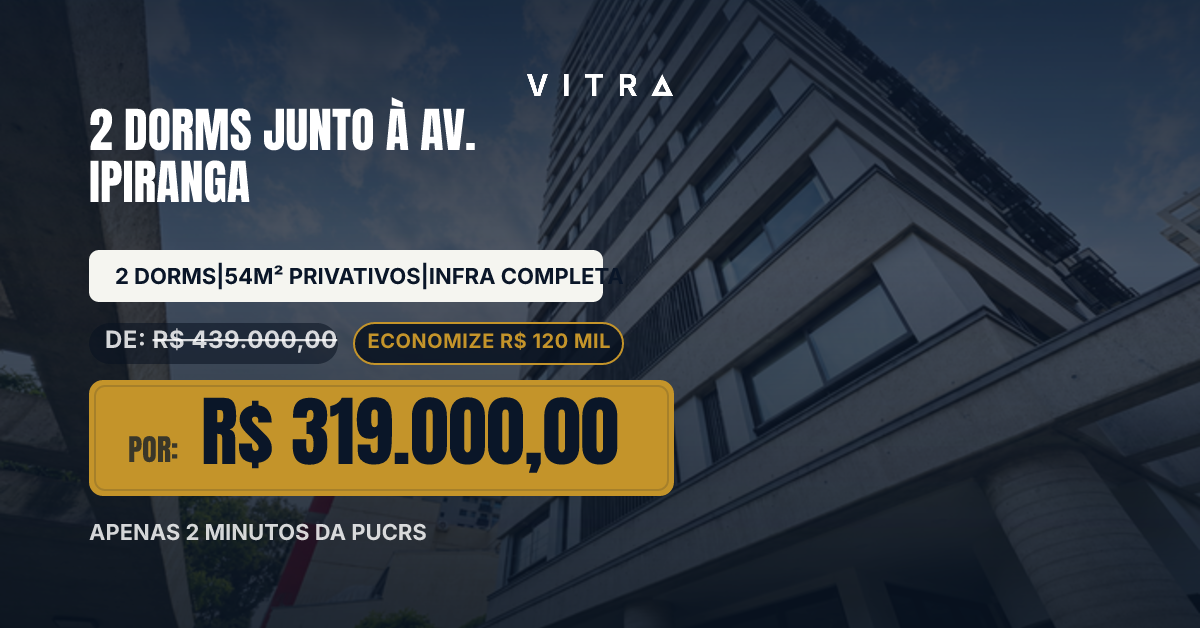
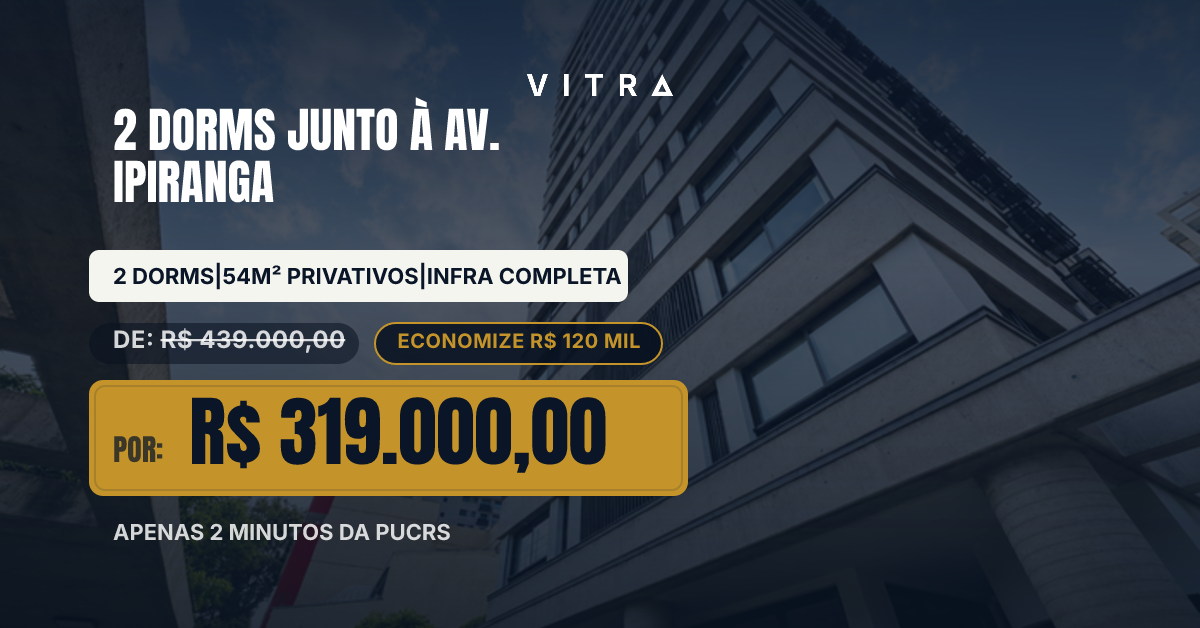
Oferta-âncora: eixo único de texto + anti-overflow (v5) + QA Harness determinístico
Novos screenshots (v4): placa de preço OK, mas eixos de texto escalonados
(headline em x, barra em x+padding, POR em x+padSide → "desalinhado") e barra
encostando o texto na borda (estimador subestima a largura).

Decisão de arte: EIXO ÚNICO à esquerda (logo centralizada no topo = assinatura;
todo texto num só eixo; preço herói por tamanho+ouro). NÃO centralizar.

- render-asset: axis = margin + INSET; headline/barra/DE/POR/rodapé partem de axis;
  placas começam em margin com pad-esquerdo = INSET (texto interno no eixo).
  ofertaBox ganhou o parâmetro inset. WIDTH_SAFETY=1.06 anti-overflow (fill_bar
  1.0 -> 0.94, texto nunca encosta). render-version v4 -> v5.
- creativeLint v2.1: regras novas overflow (fill>maxFill) e axis_misaligned
  (axis_spread>axisTol); +4 testes = 202 no total.
- QA Harness dashboard/scripts/creative-qa.mjs (npm run qa:creative): matriz de
  fixtures (curto/médio/preço-grande/headline-longa × 1:1/9:16/1.91:1) -> render
  real -> compara metadata.lint com o ESPERADO (normal=ok; estresse=reprova pela
  regra certa); 546 tratado como infra; sai 1 no CI. Núcleo determinístico.

Verificado (render real): ref 3 formatos ok, axis_spread=0, fill_bar=0.94,
fill_price=1, price_ratio~3.2; headline-longa REPROVADA por char_limit; 202 testes
+ ESLint OK; 3 previews sem-moldura -> v5. Fixtures removidas.

diff --git a/supabase/functions/render-asset/index.ts b/supabase/functions/render-asset/index.ts
@@ -1693,31 +1693,37 @@ function buildVitraFichaSvg(asset: any, campaign: any, images: Array<string | nu
 // grupo + padding, limitada a maxW) e o VALOR CRESCE até preencher a altura útil — sem vazio lateral
 // (o erro marcado nos screenshots). Left-anchored em `x` para manter o mesmo eixo da headline/barra.
 // Retorna métricas (valueSize, fill, plateW) para o Creative Lint provar o preenchimento.
-function ofertaBox(x: number, y: number, maxW: number, h: number, label: string, value: string, labelSize: number):
-  { markup: string; valueSize: number; fill: number; plateW: number } {
+// `inset` = padding esquerdo (o "POR:" nasce no eixo comum de texto). SAFETY compensa a subestimação
+// do estimador de largura (o valor real do Anton é ~6% mais largo) — a placa abraça com folga e o valor
+// NÃO encosta na borda direita. Retorna métricas p/ o Creative Lint (fill, plateW, textLeft do rótulo).
+const WIDTH_SAFETY = 1.06;
+function ofertaBox(x: number, y: number, maxW: number, h: number, label: string, value: string, labelSize: number, inset: number):
+  { markup: string; valueSize: number; fill: number; plateW: number; textLeft: number } {
   const F = 0.79; // fator display (Anton) — espelha o fitDisplaySize da Edge
   const ink = "#0A1628";
   const rx = Math.round(h * 0.12);
-  const padSide = Math.round(h * 0.34);
+  const padL = inset;
+  const padR = Math.round(h * 0.34);
   const gap = Math.round(labelSize * 0.55);
-  const labelW = measuredWidthPx(label, labelSize, F);
+  const labelW = measuredWidthPx(label, labelSize, F) * WIDTH_SAFETY;
   const valueMax = Math.round(h * 0.66);
   const valueMin = Math.round(h * 0.34);
-  const valueBudget = Math.max(40, (maxW - padSide * 2) - labelW - gap);
+  // Orçamento do valor já descontado da folga de segurança → o texto real cabe sem tocar a borda.
+  const valueBudget = Math.max(40, Math.round(((maxW - padL - padR) - labelW - gap) / WIDTH_SAFETY));
   const valueSize = fitFillSize(value, { min: valueMin, max: valueMax, widthPx: valueBudget, factor: F });
-  const valueW = measuredWidthPx(value, valueSize, F);
+  const valueW = measuredWidthPx(value, valueSize, F) * WIDTH_SAFETY;
   const groupW = labelW + gap + valueW;
-  const plateW = Math.min(maxW, Math.round(groupW + padSide * 2));
-  const innerW = plateW - padSide * 2;
-  const contentX = x + padSide;
+  const plateW = Math.min(maxW, Math.round(groupW + padL + padR));
+  const innerW = plateW - padL - padR;
+  const contentX = x + padL;
   const cy = y + Math.round(h / 2) + Math.round(valueSize * 0.34);
   const labelY = cy - Math.round(valueSize * 0.02);
   const fill = fillRatio(groupW, innerW);
   const markup = `<rect x="${x}" y="${y}" width="${plateW}" height="${h}" rx="${rx}" fill="${GOLD}"/>
   <rect x="${x + 6}" y="${y + 6}" width="${plateW - 12}" height="${h - 12}" rx="${Math.max(2, rx - 4)}" fill="none" stroke="${ink}" stroke-opacity="0.16" stroke-width="2"/>
   ${textLine(contentX, labelY, label, { anchor: "start", fill: ink, family: "Anton", size: labelSize, weight: 400, opacity: 0.74 })}
-  ${textLine(contentX + labelW + gap, cy, value, { anchor: "start", fill: ink, family: "Anton", size: valueSize, weight: 400 })}`;
-  return { markup, valueSize, fill, plateW };
+  ${textLine(contentX + Math.round(labelW) + gap, cy, value, { anchor: "start", fill: ink, family: "Anton", size: valueSize, weight: 400 })}`;
+  return { markup, valueSize, fill, plateW, textLeft: contentX };
 }
 
 function buildVitraOfertaAncoraSvg(asset: any, campaign: any, images: Array<string | null>, W: number, H: number, brandProfile: ReturnType<typeof brandRenderProfile>, idBase: string, out?: { lint?: ReturnType<typeof lintCreative> }) {
@@ -1772,6 +1778,12 @@ function buildVitraOfertaAncoraSvg(asset: any, campaign: any, images: Array<stri
   };
 
   const x = L.margin;
+  // EIXO ÚNICO de texto: todo texto (headline, barra, DE, POR, rodapé) parte de `axis`; as placas
+  // começam em `x` e têm padding-esquerdo = INSET, de modo que o texto interno TAMBÉM caia em `axis`.
+  // Antes cada elemento tinha um recuo diferente (headline em x, barra em x+35, POR em x+64) → eixos
+  // escalonados, o que lia como "desalinhado". Logo continua centralizada no topo (assinatura da marca).
+  const INSET = isWide ? 24 : 34;
+  const axis = x + INSET;
   const cx = Math.round(W / 2);
   const F = formatSpec(W, H);
   // Imagem dirigida (DS P1): grade navy + enquadramento por foco.
@@ -1785,23 +1797,27 @@ function buildVitraOfertaAncoraSvg(asset: any, campaign: any, images: Array<stri
   // Headline (Anton, branca, alinhada a esquerda).
   const headLines = wrapText(headlineRaw, L.headChars, 2);
   const headMarkup = headLines.map((line, i) => {
-    const size = fitDisplaySize(line, L.headBase, Math.round(L.headBase * 0.5), L.headBudget, 0.79);
-    return textLine(x, L.headY + i * L.headGap, line, { anchor: "start", fill: "#FFFFFF", family: "Anton", size, weight: 400 });
+    const size = fitDisplaySize(line, L.headBase, Math.round(L.headBase * 0.5), L.headBudget - INSET, 0.79);
+    return textLine(axis, L.headY + i * L.headGap, line, { anchor: "start", fill: "#FFFFFF", family: "Anton", size, weight: 400 });
   }).join("");
 
   // Barra de caracteristicas — ABRAÇA o conteúdo (largura = texto + padding, left-anchored) para não
   // deixar vazio lateral (erro marcado no 1.91:1). O texto CRESCE até um teto e a barra encolhe até ele.
   const [barX, barY, maxBarW, barH] = L.bar;
-  const barPad = Math.round(barH * 0.5);
-  const barSize = featureBar ? fitFillSize(featureBar, { min: 14, max: Math.round(barH * 0.42), widthPx: maxBarW - barPad * 2, factor: 0.9 }) : L.barSize;
+  const barPad = INSET; // padding-esquerdo = INSET → o texto da barra cai no eixo comum
+  const barPadR = Math.round(barH * 0.5);
+  const barSize = featureBar ? fitFillSize(featureBar, { min: 14, max: Math.round(barH * 0.42), widthPx: maxBarW - barPad - barPadR, factor: 0.9 }) : L.barSize;
+  // Largura medida × folga de segurança (o estimador subestima; sem isso o texto encosta na borda — o
+  // erro marcado no 1.91:1). fill fica ~1/SAFETY (≈0.94) → passa no minFill e no maxFill (não overflow).
   const barTextW = featureBar ? measuredWidthPx(featureBar, barSize, 0.9) : 0;
-  const barW = featureBar ? Math.min(maxBarW, Math.round(barTextW + barPad * 2)) : maxBarW;
-  const barInnerW = Math.max(1, barW - barPad * 2);
+  const barSafeW = barTextW * WIDTH_SAFETY;
+  const barW = featureBar ? Math.min(maxBarW, Math.round(barSafeW + barPad + barPadR)) : maxBarW;
+  const barInnerW = Math.max(1, barW - barPad - barPadR);
   const barFill = featureBar ? fillRatio(barTextW, barInnerW) : 1;
   const barTextY = barY + Math.round(barH / 2) + Math.round(barSize * 0.35);
   const barMarkup = featureBar
     ? `<rect x="${barX}" y="${barY}" width="${barW}" height="${barH}" rx="10" fill="#F5F5F0"/>
-    ${textLine(barX + barPad, barTextY, featureBar, { anchor: "start", fill: "#0A1628", family: "Inter", size: barSize, weight: 800 })}`
+    ${textLine(axis, barTextY, featureBar, { anchor: "start", fill: "#0A1628", family: "Inter", size: barSize, weight: 800 })}`
     : "";
 
   // ---- Linha "DE / economia": preço antigo riscado num chip legível (à esquerda) + selo de economia
@@ -1824,25 +1840,26 @@ function buildVitraOfertaAncoraSvg(asset: any, campaign: any, images: Array<stri
   const deH = Math.round(L.deSize * 1.7);
   const deRowTop = L.deY - Math.round(L.deSize * 1.05);
   const deText = `DE: ${formatMoneyLike(priceFrom)}`;
-  const deChipW = priceFrom ? Math.round(measuredWidthPx(deText, L.deSize, 1.0) + 32) : 0;
+  // Chip DE: texto no EIXO (padding-esquerdo = INSET) + folga de segurança à direita.
+  const deChipW = priceFrom ? Math.round(measuredWidthPx(deText, L.deSize, 1.0) * WIDTH_SAFETY + INSET + 16) : 0;
   const savFs = Math.round(L.deSize * 0.82);
-  const savPillW = savingsLabel ? Math.round(measuredWidthPx(savingsLabel, savFs, 1.0) + 36) : 0;
+  const savPillW = savingsLabel ? Math.round(measuredWidthPx(savingsLabel, savFs, 1.0) * WIDTH_SAFETY + 40) : 0;
   const savX = x + deChipW + (priceFrom && savingsLabel ? 16 : 0);
   const deMarkup = (priceFrom || savingsLabel) ? `
     ${priceFrom ? `<rect x="${x}" y="${deRowTop}" width="${deChipW}" height="${deH}" rx="${Math.round(deH / 2)}" fill="#07111F" fill-opacity="0.55"/>
-    <text x="${x + 16}" y="${L.deY}" text-anchor="start" font-family="Inter" font-size="${L.deSize}" font-weight="800" letter-spacing="0.5"><tspan fill="rgba(255,255,255,0.82)">DE: </tspan><tspan fill="rgba(255,255,255,0.82)" text-decoration="line-through">${esc(formatMoneyLike(priceFrom))}</tspan></text>` : ""}
+    <text x="${axis}" y="${L.deY}" text-anchor="start" font-family="Inter" font-size="${L.deSize}" font-weight="800" letter-spacing="0.5"><tspan fill="rgba(255,255,255,0.82)">DE: </tspan><tspan fill="rgba(255,255,255,0.82)" text-decoration="line-through">${esc(formatMoneyLike(priceFrom))}</tspan></text>` : ""}
     ${savingsLabel ? `<rect x="${savX}" y="${deRowTop}" width="${savPillW}" height="${deH}" rx="${Math.round(deH / 2)}" fill="#07111F" fill-opacity="0.85" stroke="${GOLD}" stroke-width="2"/>
     ${textLine(savX + Math.round(savPillW / 2), L.deY, savingsLabel, { anchor: "middle", fill: GOLD, family: "Inter", size: savFs, weight: 800, spacing: 0.5 })}` : ""}
   ` : "";
 
   // Placa dourada "POR: <valor>" (herói) — auto-equilibrante: abraça o conteúdo e o valor cresce até preencher.
   const [boxX, boxY, boxMaxW, boxH] = L.box;
-  const price = ofertaBox(boxX, boxY, boxMaxW, boxH, "POR:", esc(priceTo), L.boxLabel);
+  const price = ofertaBox(boxX, boxY, boxMaxW, boxH, "POR:", esc(priceTo), L.boxLabel, INSET);
   const boxMarkup = price.markup;
 
-  // Rodape (localizacao / proximidade) — left-anchored no mesmo eixo.
+  // Rodape (localizacao / proximidade) — no mesmo eixo.
   const footMarkup = footer
-    ? textLine(x, L.footY, footer, { anchor: "start", fill: "rgba(255,255,255,0.82)", family: "Inter", size: L.footSize, weight: 800 })
+    ? textLine(axis, L.footY, footer, { anchor: "start", fill: "rgba(255,255,255,0.82)", family: "Inter", size: L.footSize, weight: 800 })
     : "";
 
   // ---- Creative Lint v2 (P0 determinismo): além de safe-zone/colisão/overflow/char-limit, agora
@@ -1853,13 +1870,13 @@ function buildVitraOfertaAncoraSvg(asset: any, campaign: any, images: Array<stri
     const headSize0 = headLines.length ? fitDisplaySize(headLines[0], L.headBase, Math.round(L.headBase * 0.5), L.headBudget, 0.79) : L.headBase;
     const els: LintElement[] = [
       { role: "logo", box: { x: logoX, y: L.logoY, w: L.logoW, h: logoH }, critical: true, isLogo: true },
-      { role: "headline", box: { x, y: L.headY - Math.round(headSize0 * 0.8), w: L.headBudget, h: headLines.length * L.headGap }, critical: true, block: true, charLen: headlineRaw.length, charLimit: 40 },
-      { role: "bar", box: { x: barX, y: barY, w: barW, h: barH }, critical: true, block: true, secondary: true, fontSize: barSize, ...(featureBar ? { fill: barFill, minFill: 0.80 } : {}) },
-      { role: "price", box: { x: boxX, y: boxY, w: price.plateW, h: boxH }, critical: true, block: true, display: true, fontSize: price.valueSize, minFont: Math.round(boxH * 0.34), fill: price.fill, minFill: 0.60 },
-      { role: "de", box: { x, y: deRowTop, w: deChipW + (savingsLabel ? savPillW + 16 : 0), h: deH }, secondary: true, fontSize: L.deSize },
-      { role: "footnote", box: { x, y: L.footY - L.footSize, w: Math.round(measuredWidthPx(footer, L.footSize, 1.0)), h: L.footSize + 6 }, critical: true, secondary: true, fontSize: L.footSize },
+      { role: "headline", box: { x: axis, y: L.headY - Math.round(headSize0 * 0.8), w: L.headBudget - INSET, h: headLines.length * L.headGap }, critical: true, block: true, charLen: headlineRaw.length, charLimit: 40, onAxis: true, textLeft: axis },
+      { role: "bar", box: { x: barX, y: barY, w: barW, h: barH }, critical: true, block: true, secondary: true, fontSize: barSize, onAxis: true, textLeft: axis, ...(featureBar ? { fill: barFill, minFill: 0.80, maxFill: 0.99 } : {}) },
+      { role: "price", box: { x: boxX, y: boxY, w: price.plateW, h: boxH }, critical: true, block: true, display: true, fontSize: price.valueSize, minFont: Math.round(boxH * 0.34), fill: price.fill, minFill: 0.60, maxFill: 1.02, onAxis: true, textLeft: price.textLeft },
+      { role: "de", box: { x, y: deRowTop, w: deChipW + (savingsLabel ? savPillW + 16 : 0), h: deH }, secondary: true, fontSize: L.deSize, onAxis: !!priceFrom, textLeft: axis },
+      { role: "footnote", box: { x: axis, y: L.footY - L.footSize, w: Math.round(measuredWidthPx(footer, L.footSize, 1.0)), h: L.footSize + 6 }, critical: true, secondary: true, fontSize: L.footSize, onAxis: !!footer, textLeft: axis },
     ];
-    out.lint = lintCreative(F.safe, els, { gapCap: L.gapCap, priceMinRatio: 1.6, requireLogo: true });
+    out.lint = lintCreative(F.safe, els, { gapCap: L.gapCap, priceMinRatio: 1.6, requireLogo: true, axisTol: 8 });
     if (!out.lint.ok) console.warn(`[creativeLint] oferta-ancora ${F.kind}: ${out.lint.errors.join(", ")}`);
   }
 

diff --git a/supabase/functions/_shared/creativeLint.ts b/supabase/functions/_shared/creativeLint.ts
@@ -23,8 +23,11 @@ export interface LintElement {
   // v2 (determinismo de composição):
   fill?: number;        // fração [0..1] da largura interna do container preenchida pelo conteúdo
   minFill?: number;     // preenchimento mínimo exigido (reprova vazio lateral sem função)
+  maxFill?: number;     // preenchimento máximo (fill>max ⇒ texto encostando/excedendo o container)
   secondary?: boolean;  // texto secundário (barra/rodapé) — referência p/ a proeminência do preço
   isLogo?: boolean;     // é a logo da marca (checa presença quando requireLogo)
+  textLeft?: number;    // x óptico da 1ª letra (para checar o eixo de alinhamento entre textos)
+  onAxis?: boolean;     // participa do eixo de alinhamento comum (com textLeft)
 }
 
 export interface LintReport { ok: boolean; errors: string[]; warnings: string[]; metrics?: Record<string, number> }
@@ -34,6 +37,7 @@ export interface LintOptions {
   gapCap?: number;       // maior faixa morta vertical tolerada (px) entre blocos de topo
   priceMinRatio?: number; // altura do preço ≥ ratio × maior texto secundário
   requireLogo?: boolean;  // exige uma logo presente
+  axisTol?: number;       // desvio máximo (px) entre os eixos ópticos dos textos onAxis
 }
 
 // Fração da menor caixa a partir da qual uma sobreposição conta como colisão real (evita falso-positivo
@@ -95,10 +99,22 @@ export function lintCreative(safe: FormatSpec["safe"], elements: LintElement[], 
 
   // 7) Preenchimento: conteúdo que deixa vazio lateral sem função dentro do próprio container
   // (ex.: valor curto numa placa larga, texto centralizado numa barra full-width). REPROVA.
+  // E o inverso: fill acima do teto ⇒ texto encostando/excedendo a borda do container (overflow).
   for (const e of elements) {
-    if (e.minFill != null && e.fill != null) {
+    if (e.fill != null && (e.minFill != null || e.maxFill != null)) {
       metrics[`fill_${e.role}`] = Number(e.fill.toFixed(2));
-      if (e.fill < e.minFill) errors.push(`underfill:${e.role}`);
+      if (e.minFill != null && e.fill < e.minFill) errors.push(`underfill:${e.role}`);
+      if (e.maxFill != null && e.fill > e.maxFill) errors.push(`overflow:${e.role}`);
+    }
+  }
+
+  // 7b) Eixo de alinhamento: os textos marcados onAxis devem partir do MESMO x óptico (± axisTol).
+  if (opts.axisTol != null) {
+    const lefts = elements.filter((e) => e.onAxis && e.textLeft != null).map((e) => e.textLeft as number);
+    if (lefts.length > 1) {
+      const spread = Math.max(...lefts) - Math.min(...lefts);
+      metrics.axis_spread = Math.round(spread);
+      if (spread > opts.axisTol) errors.push(`axis_misaligned:${Math.round(spread)}>${opts.axisTol}`);
     }
   }
 

diff --git a/dashboard/src/lib/__tests__/creativeLint.test.js b/dashboard/src/lib/__tests__/creativeLint.test.js
@@ -136,4 +136,37 @@ describe('creativeLint v2 — composição determinística (os erros marcados no
     const els = [{ role: 'bar', box: { x: 90, y: 300, w: 900, h: 70 }, block: true }]
     expect(lintCreative(safe, els).ok).toBe(true)
   })
+
+  it('REPROVA overflow: texto excede o container (fill acima do teto)', () => {
+    const els = [{ role: 'bar', box: { x: 90, y: 300, w: 400, h: 70 }, fill: 1.08, maxFill: 0.99 }]
+    const r = lintCreative(safe, els)
+    expect(r.errors).toContain('overflow:bar')
+  })
+
+  it('APROVA quando o texto abraça o container com folga (fill ≤ maxFill)', () => {
+    const els = [{ role: 'bar', box: { x: 90, y: 300, w: 400, h: 70 }, fill: 0.94, minFill: 0.80, maxFill: 0.99 }]
+    expect(lintCreative(safe, els).ok).toBe(true)
+  })
+
+  it('REPROVA eixos de texto escalonados (axis_misaligned)', () => {
+    const els = [
+      { role: 'headline', box: { x: 90, y: 200, w: 800, h: 80 }, onAxis: true, textLeft: 90 },
+      { role: 'bar', box: { x: 90, y: 300, w: 800, h: 70 }, onAxis: true, textLeft: 125 }, // recuo do padding
+      { role: 'price', box: { x: 90, y: 400, w: 800, h: 120 }, onAxis: true, textLeft: 154 },
+    ]
+    const r = lintCreative(safe, els, { axisTol: 8 })
+    expect(r.errors.some(e => e.startsWith('axis_misaligned:'))).toBe(true)
+    expect(r.metrics.axis_spread).toBe(64)
+  })
+
+  it('APROVA quando todos os textos partem do mesmo eixo (spread 0)', () => {
+    const els = [
+      { role: 'headline', box: { x: 124, y: 200, w: 700, h: 80 }, onAxis: true, textLeft: 124 },
+      { role: 'bar', box: { x: 90, y: 300, w: 700, h: 70 }, onAxis: true, textLeft: 124 },
+      { role: 'price', box: { x: 90, y: 400, w: 700, h: 120 }, onAxis: true, textLeft: 124 },
+    ]
+    const r = lintCreative(safe, els, { axisTol: 8 })
+    expect(r.metrics.axis_spread).toBe(0)
+    expect(r.errors.some(e => e.startsWith('axis_misaligned'))).toBe(false)
+  })
 })

diff --git a/supabase/functions/_shared/renderVersions.ts b/supabase/functions/_shared/renderVersions.ts
@@ -16,7 +16,7 @@ export const VITRA_IMOBILIARIA_TEMPLATE_RENDER_VERSION: Record<string, string> =
   "vitra-imobiliaria-vitrine-gallery": "vitrine-gallery-approved-v1",
   "vitra-imobiliaria-oportunidade-bairro": "oportunidade-bairro-headfit-v3",
   "vitra-imobiliaria-ficha-imovel": "ficha-imovel-approved-v1",
-  "vitra-imobiliaria-oferta-ancora": "oferta-ancora-approved-v4",
+  "vitra-imobiliaria-oferta-ancora": "oferta-ancora-approved-v5",
   "vitra-imobiliaria-destino-bairro": "destino-bairro-poster-v4",
 };
 

diff --git a/dashboard/src/lib/creativeTemplateCatalog.js b/dashboard/src/lib/creativeTemplateCatalog.js
@@ -850,7 +850,7 @@ export const CREATIVE_TEMPLATE_CATALOG = {
       // Arte nova (junho/2026). Referencia visual do cliente (peca "2 DORM Av. Ipiranga"): conceito/estrutura
       // de preco-ancora; adaptado ao brandbook (navy + dourado, wordmark VITRA oficial). Cada formato tem
       // composicao propria com a safe zone do Meta.
-      renderVersion: 'oferta-ancora-approved-v4',
+      renderVersion: 'oferta-ancora-approved-v5',
     },
     {
       id: 'vitra-imobiliaria-destino-bairro',

diff --git a/obsidian/00_Comece_Aqui.md b/obsidian/00_Comece_Aqui.md
@@ -248,6 +248,8 @@ Navegue pelas seÃ§Ãµes do projeto utilizando os links abaixo:
 81. **[[Atualizacao_2026-06-19_Skill_Vitra_Trafego_e_QualityLead]]**
     Skill nova `vitra-trafego` (v1, LOCAL em .claude/) — estrategista de Meta Ads: analisa campanhas pagas, ranqueia VENCEDORAS por contexto (CPL/leads/maturidade), extrai o padrao e ADAPTA a um novo imovel (endereco→raio, ticket→form, publico, regiao, objetivo). So PROPOE: relatorio markdown + JSON do preset (forma de premium_meta_presets.blueprint, importavel/auto-seed). NAO executa/ativa — build do app, PAUSED, sob aprovacao. Espelha vitra-conteudo (organico). Regras: vencedora=CPL≤mediana+leads≥30+madura; score+proveniencia; TTL p/ depreciar; nunca fora dos guards. + Ajuste no objectivePlaybook: leads_form optimization_goal LEAD_GENERATION→QUALITY_LEAD (DEPOIS revertido — ver item 82). (.claude gitignored — skill nao versionada.)
 
+180. **[[Atualizacao_2026-07-01_Eixo_Unico_Overflow_QA_Harness]] — Oferta-âncora: eixo único + anti-overflow + QA Harness** — novos screenshots marcados (v4): a placa de preço já OK, mas (1) eixos de texto ESCALONADOS (headline em x, barra em x+padding, POR em x+padSide → lia como desalinhado) e (2) barra encostando o texto na borda (estimador subestima). Decisão de arte: EIXO ÚNICO à esquerda (logo centralizada no topo; todo texto num eixo; preço herói) — NÃO centralizar. Fixes na fonte: `axis=margin+INSET` (placas começam em margin com pad-esq=INSET → texto interno no eixo; `ofertaBox` ganhou `inset`); `WIDTH_SAFETY=1.06` anti-overflow (fill_bar 1.0→0.94). creativeLint v2.1: regras `overflow` (fill>maxFill) e `axis_misaligned` (axis_spread>tol). v4→v5. **QA Harness** `dashboard/scripts/creative-qa.mjs` (`npm run qa:creative`): matriz de fixtures (curto/médio/preço-grande/headline-longa × 3 formatos) → render real → compara lint com o ESPERADO (normal=ok; estresse=reprova certo); 546 tratado como infra; sai 1 no CI = trava regressão. Núcleo determinístico (não julgamento do modelo); Claude só conserta quando falha. Verificado: ref 3 formatos ok, axis_spread=0, fill_bar=0.94; headline-longa REPROVADA por char_limit; 202 testes (4 novos)+lint OK; 3 previews sem-moldura→v5. [[render-asset-deploy-e-limites]]
+
 179. **[[Atualizacao_2026-07-01_Validador_Layout_Deterministico_Fase1]] — Validador de Layout determinístico (Fase 1)** — resposta à causa ESTRUTURAL de por que erros básicos (vazio lateral, faixa morta, preço fraco) se repetiam mesmo com skills instaladas. Diagnóstico: as skills de design NÃO rodam na geração (só orientam o autor); o motor usa coordenadas fixas (números mágicos); e o `creativeLint` (6 regras) NÃO bloqueava (só `console.warn`, salvava com `ok:false`) nem media composição → os erros marcados davam `ok:true`. Entregue: **`layoutKit.ts`** (helpers auto-equilibrantes: `fitFillSize` cresce até preencher, `distributeV` sem faixa morta) + **`creativeLint` v2** com 4 regras bloqueantes novas (`underfill`, `dead_gap`, `price_weak`, `logo_missing`) + `metadata.lint.metrics` auditável. `oferta-ancora` refatorado na FONTE (placa/barra abraçam o conteúdo, valor cresce, story distribuído; v3→v4). Verificado: `fill_bar=1`, `fill_price=1`, `price_ratio≈3.2`, 198 testes (16 novos)+lint OK. O gate REPROVOU story/wide com `safe_zone:logo` (bug pré-existente: logo acima da safe-zone) → corrigido → `ok:true` nos 3 = validador pegando erro real. Skill direcao-de-arte atualizada (pré-flight v2). Story com-moldura não regenerou (546/OOM 9:16 = P0.2). Falta: Fase 2 (auto-regen+needs_human), 3 (golden ref), 4 (propagar aos 9 templates). [[render-asset-deploy-e-limites]]
 
 178. **[[Atualizacao_2026-06-30_Trafego_Fase2_Criativo_Oferta_Ancora]] — Tráfego Fase 2 (criativos): oferta-ancora preço-protagonista** — primeira peça da análise criativo-a-criativo (Dev+PO+Diretor de Design, lente ui-ux-pro-max) do oferta-ancora (preço-âncora De/Por) nos 3 formatos. Diagnóstico ANTES: preço não saltava (`ofertaBox` = box navy translúcido 34% + valor branco, competia com headline/barra brancas); "DE" riscado flutuava ilegível; desconto R$120 mil/−27% não aparecia; story com metade inferior morta. Fixes ESTRUTURAIS no motor: `ofertaBox`→**placa dourada sólida + texto navy** (navy/dourado ≈6:1 AA, o elemento mais saturado da peça); linha **"DE chip + selo ECONOMIZE R$ 120 MIL"** calculado de De−Por (preenche o vazio à direita e amplifica a oferta); story com cluster de preço empurrado p/ o terço inferior (some a metade morta). render-version v2→v3 (cache-bust, espelhado, guard verde). Verificado: deploy CLI + 3 renders DEPOIS 200 sem 546 (1080×1080 / 1200×628 / 9:16 972×1728), Creative Lint ok=true zero erros nos 3, 182 testes+ESLint OK, 6 previews do catálogo regenerados (com/sem moldura), assets de teste removidos. Aceite atendido → aprovado. Próximos: destino-bairro, hero-checklist, duo-selos, hero-panel, ficha-imovel (mesma sequência). [[render-asset-deploy-e-limites]]

diff --git a/obsidian/Atualizacao_2026-07-01_Eixo_Unico_Overflow_QA_Harness.md b/obsidian/Atualizacao_2026-07-01_Eixo_Unico_Overflow_QA_Harness.md
@@ -1,0 +1,49 @@
+# Oferta-âncora: eixo único + anti-overflow + QA Harness (2026-07-01)
+
+Continuação da [[Atualizacao_2026-07-01_Validador_Layout_Deterministico_Fase1|Fase 1 do validador]].
+Novos screenshots marcados apontaram 2 problemas na v4 (a placa de preço já estava OK) + o pedido de um
+**loop automatizado** que impeça erros básicos antes de exibir.
+
+## Diagnóstico (v4) — 2 causas estruturais
+1. **Eixos de texto escalonados.** Os containers alinhavam em `x`, mas o TEXTO não: headline em `x`,
+   texto da barra em `x+padding`, "POR:" em `x+padSide`, DE em `x+16`. Recuos diferentes → lia como
+   "desalinhado". **Decisão de direção de arte (Q1/Q3): eixo ÚNICO à esquerda** (logo centralizada no
+   topo = assinatura; todo texto num só eixo; preço herói por tamanho+ouro). **Não centralizar** —
+   leitura L→R + preço dominante pedem left-axis.
+2. **Barra encostando o texto na borda** (1.91:1). O estimador de largura **subestima** → o hug ficou
+   justo demais.
+
+## Correções (na FONTE, render-asset)
+- **Eixo único:** `axis = margin + INSET`; headline/barra/DE/POR/rodapé partem todos de `axis`; as placas
+  começam em `margin` com padding-esquerdo = INSET (o texto interno cai no eixo). `ofertaBox` ganhou o
+  parâmetro `inset`.
+- **Anti-overflow:** `WIDTH_SAFETY = 1.06` nas larguras que abraçam (barra, chips DE/economia, placa) —
+  compensa a subestimação; o texto fica com folga (`fill_bar` 1.0 → **0.94**), nunca encosta.
+- **Creative Lint v2.1:** 2 regras novas — **`overflow`** (`fill > maxFill` → texto excede o container) e
+  **`axis_misaligned`** (desvio dos eixos ópticos > `axisTol`; grava `axis_spread`). render-version v4→v5.
+
+## QA Harness — o "loop" determinístico (a solução estrutural do pedido)
+`dashboard/scripts/creative-qa.mjs` (`npm run qa:creative`). Renderiza uma **matriz de fixtures**
+(conteúdo curto/médio/preço-grande/headline-longa × 1:1/9:16/1.91:1) pela Edge real, lê o
+`metadata.lint` e **compara com o resultado ESPERADO** de cada fixture (normal→`ok`; estresse→reprovar
+pela regra certa). Trata 546 (OOM 9:16) como infra (retry), não como falha de design. Sai 1 no CI se
+qualquer fixture divergir → **trava regressão**. **Decisão técnica:** o núcleo do loop é DETERMINÍSTICO
+(script), não julgamento do modelo; o Claude Code entra só na camada de CONSERTO quando o harness falha.
+
+## Verificação (render real)
+- 4 fixtures renderizadas. **Referência (feed/story/wide): `ok:true`**, `axis_spread=0` (eixo perfeito),
+  `fill_bar=0.94` (sem overflow), `fill_price=1`, `price_ratio≈3.2`.
+- **Estresse "headline-longa" (wide): `ok:false` com `char_limit:headline`** → o gate REPROVOU conteúdo
+  longo em vez de truncar/exibir (exatamente o comportamento pedido no Q2).
+- Inspeção visual feed+wide: todo o texto no mesmo eixo esquerdo; barra com folga à direita. **202 testes
+  (4 novos: overflow/axis) + ESLint OK.** 3 previews sem-moldura → v5. Fixtures removidas.
+  (com-moldura feed/wide seguem v4; story com-moldura pendente por 546/OOM 9:16 = P0.2.)
+
+## Arquitetura recomendada (resposta ao pedido do loop)
+Combinação, não loop puro de modelo: **harness determinístico (núcleo)** + **Creative Lint v2 (validação
+geométrica)** + **layoutKit (componentes auto-equilibrantes)** + **schemas/tolerâncias por formato** +
+skills de direção de arte só como PRÉ-FLIGHT/consertador. Próximo: golden reference (regressão visual por
+pixel) e propagar às 8 famílias restantes; auto-regeneração no motor (needs_human).
+
+Commit: eixo único + anti-overflow (v5) + creativeLint overflow/axis + QA harness.
+[[render-asset-deploy-e-limites]]
